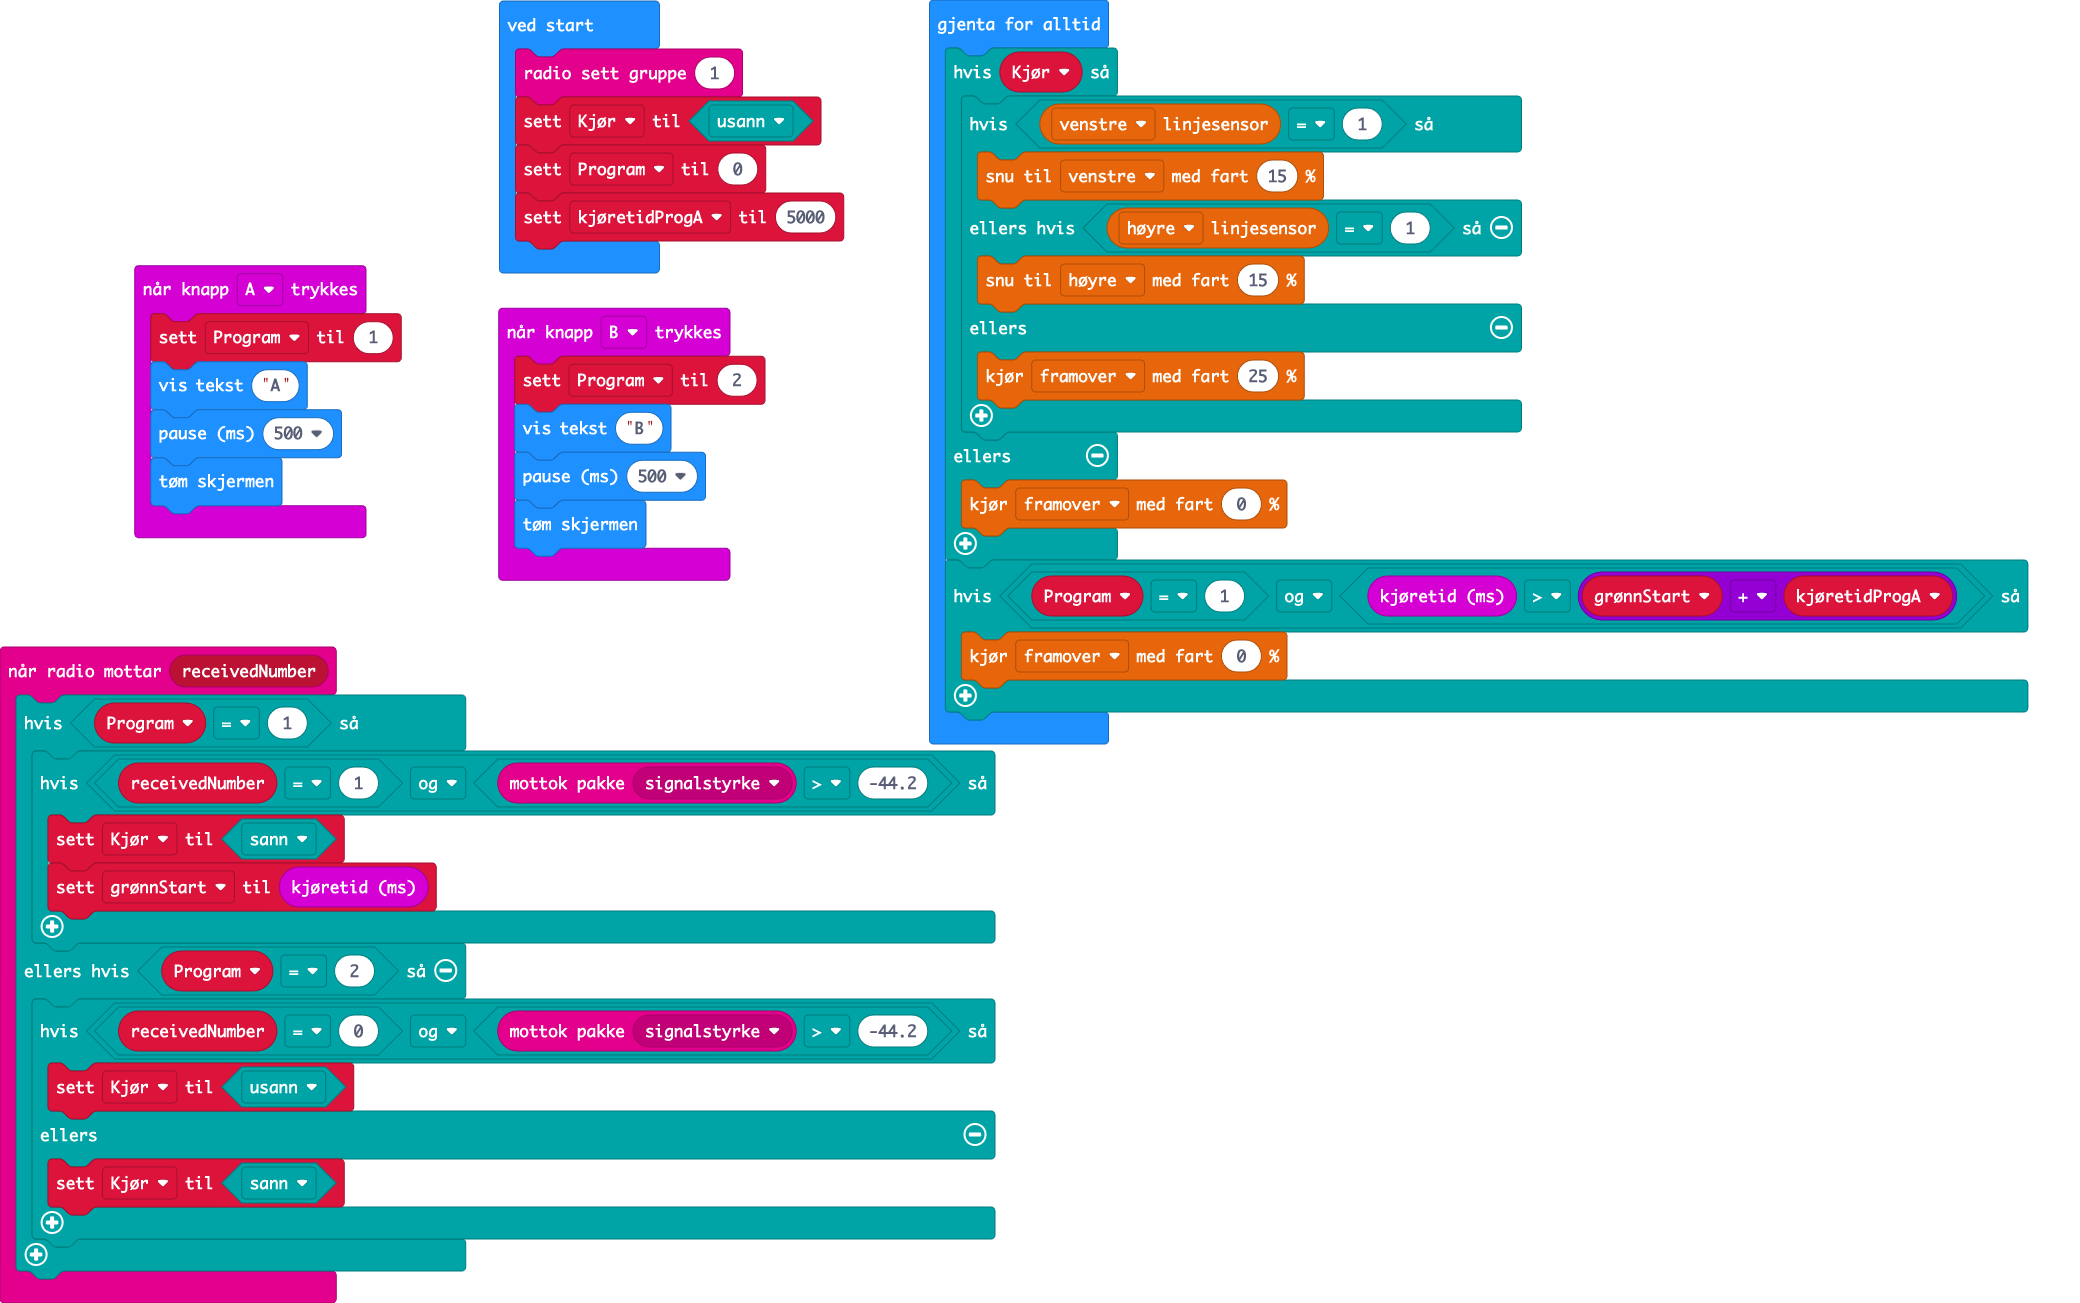
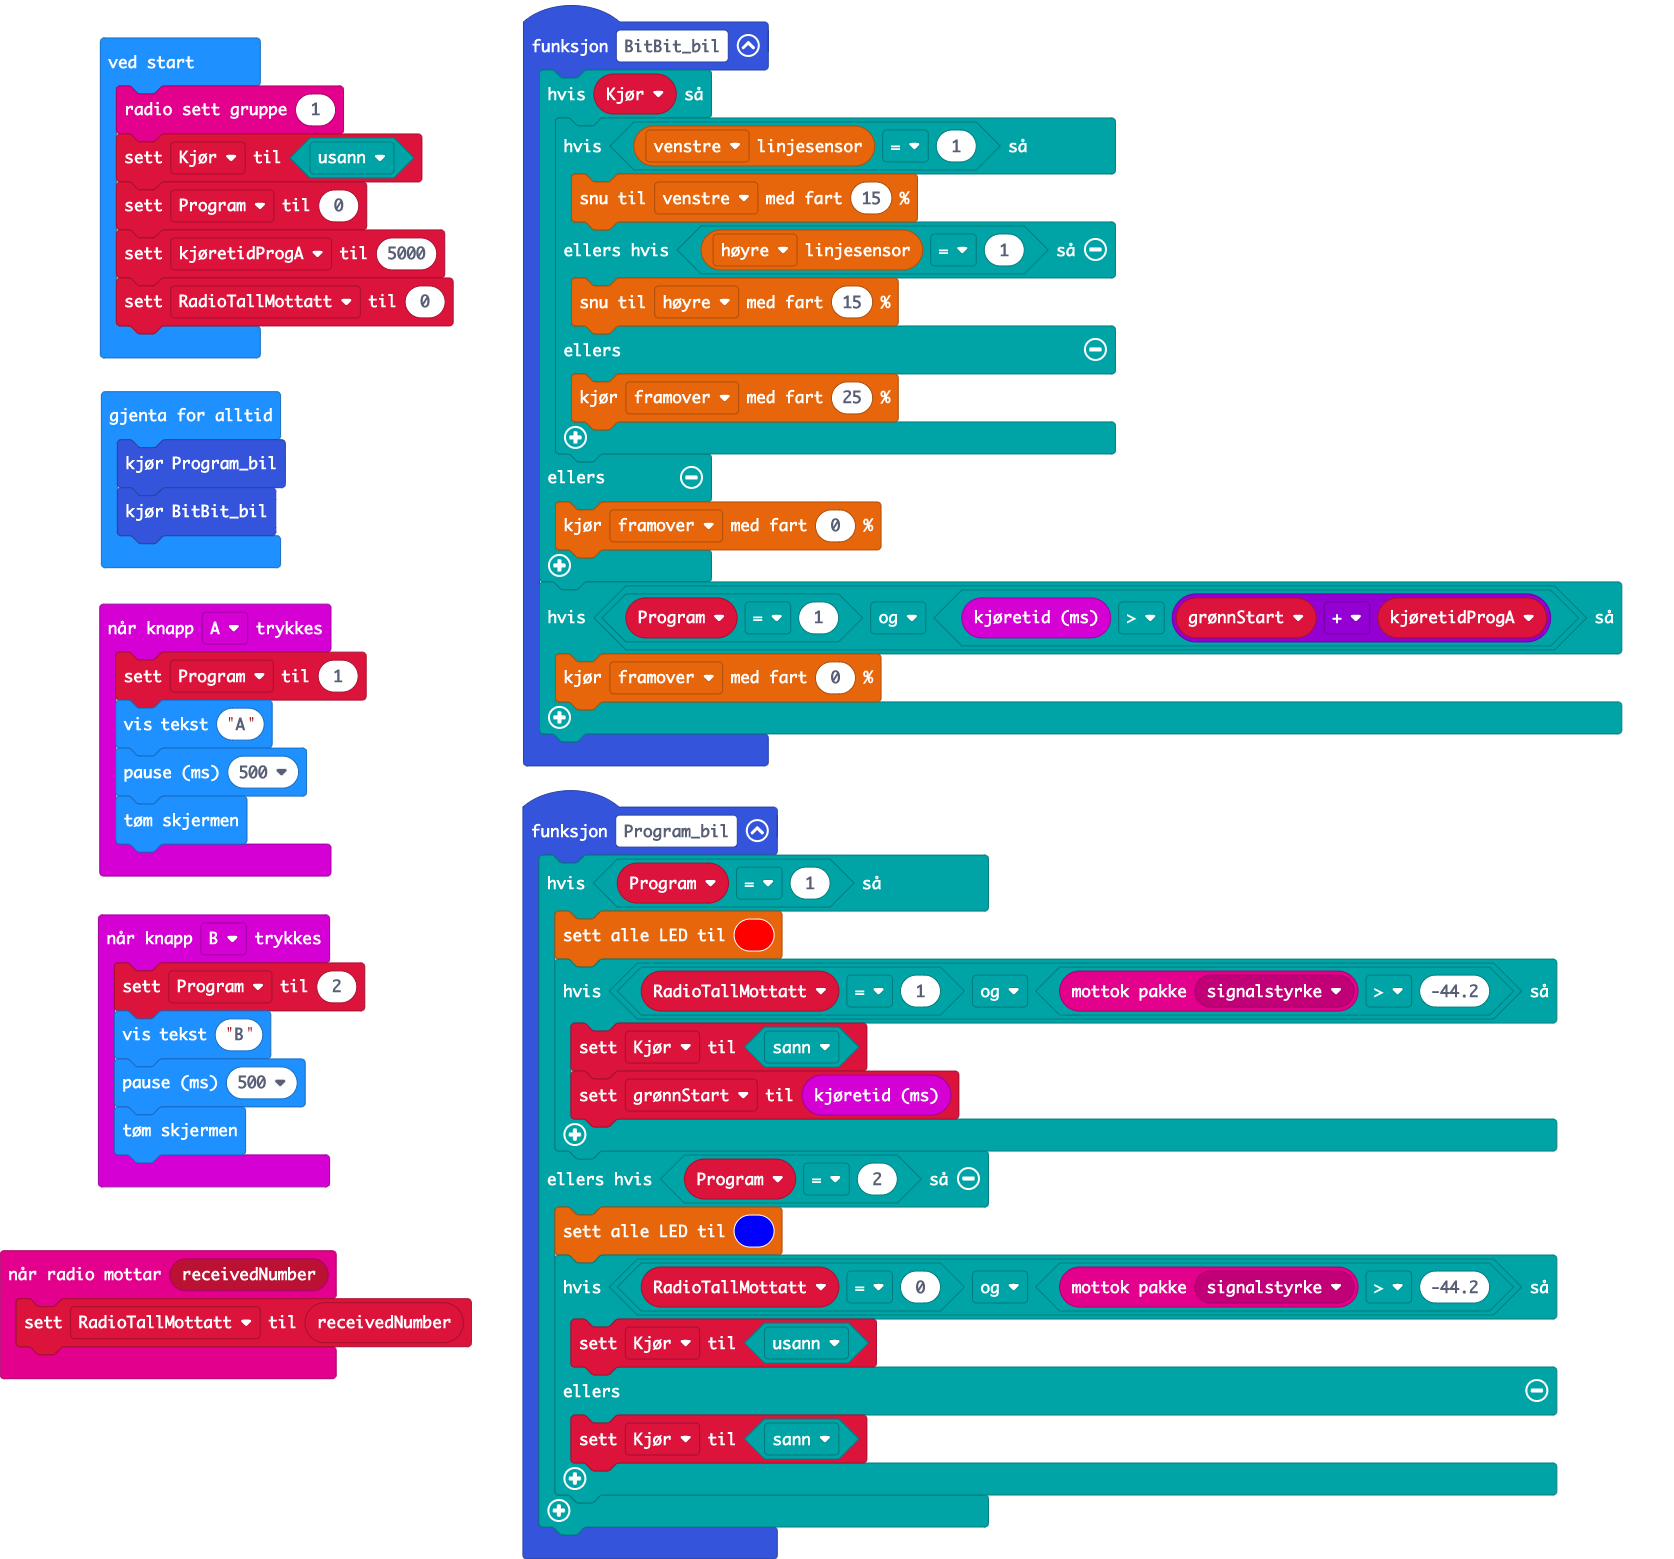
Oppdater pxt.json, main.blocks, main.ts

diff --git a/main.ts b/main.ts
@@ -1,16 +1,5 @@
 radio.onReceivedNumber(function (receivedNumber) {
-    if (Program == 1) {
-        if (receivedNumber == 1 && radio.receivedPacket(RadioPacketProperty.SignalStrength) > -44.2) {
-            Kjør = true
-            grønnStart = input.runningTime()
-        }
-    } else if (Program == 2) {
-        if (receivedNumber == 0 && radio.receivedPacket(RadioPacketProperty.SignalStrength) > -44.2) {
-            Kjør = false
-        } else {
-            Kjør = true
-        }
-    }
+    RadioTallMottatt = receivedNumber
 })
 input.onButtonPressed(Button.A, function () {
     Program = 1
@@ -24,14 +13,7 @@ input.onButtonPressed(Button.B, function () {
     basic.pause(500)
     basic.clearScreen()
 })
-let grønnStart = 0
-let Program = 0
-let Kjør = false
-radio.setGroup(1)
-Kjør = false
-Program = 0
-let kjøretidProgA = 5000
-basic.forever(function () {
+function BitBit_bil () {
     if (Kjør) {
         if (bitbot.readLine(BBLineSensor.Left) == 1) {
             bitbot.rotate(BBRobotDirection.Left, 15)
@@ -46,4 +28,34 @@ basic.forever(function () {
     if (Program == 1 && input.runningTime() > grønnStart + kjøretidProgA) {
         bitbot.go(BBDirection.Forward, 0)
     }
+}
+function Program_bil () {
+    if (Program == 1) {
+        bitbot.setLedColor(0xFF0000)
+        if (RadioTallMottatt == 1 && radio.receivedPacket(RadioPacketProperty.SignalStrength) > -44.2) {
+            Kjør = true
+            grønnStart = input.runningTime()
+        }
+    } else if (Program == 2) {
+        bitbot.setLedColor(0x0000FF)
+        if (RadioTallMottatt == 0 && radio.receivedPacket(RadioPacketProperty.SignalStrength) > -44.2) {
+            Kjør = false
+        } else {
+            Kjør = true
+        }
+    }
+}
+let grønnStart = 0
+let RadioTallMottatt = 0
+let kjøretidProgA = 0
+let Program = 0
+let Kjør = false
+radio.setGroup(1)
+Kjør = false
+Program = 0
+kjøretidProgA = 5000
+RadioTallMottatt = 0
+basic.forever(function () {
+    Program_bil()
+    BitBit_bil()
 })
